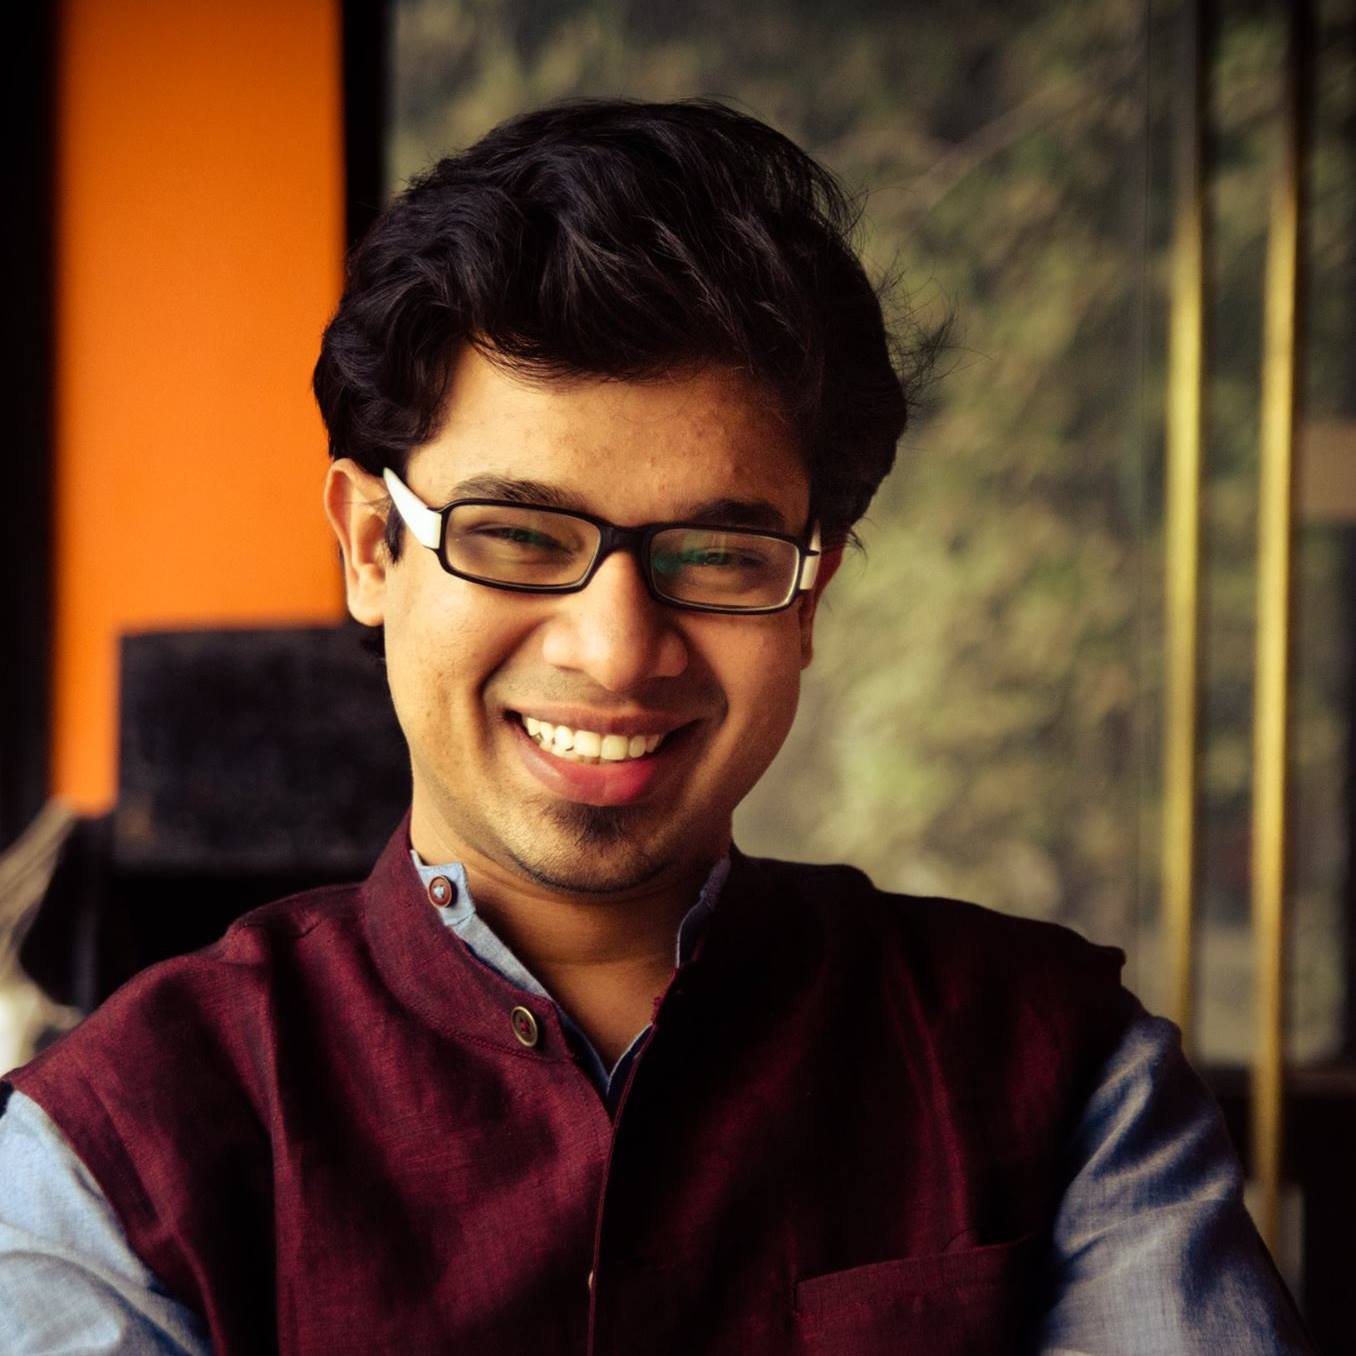
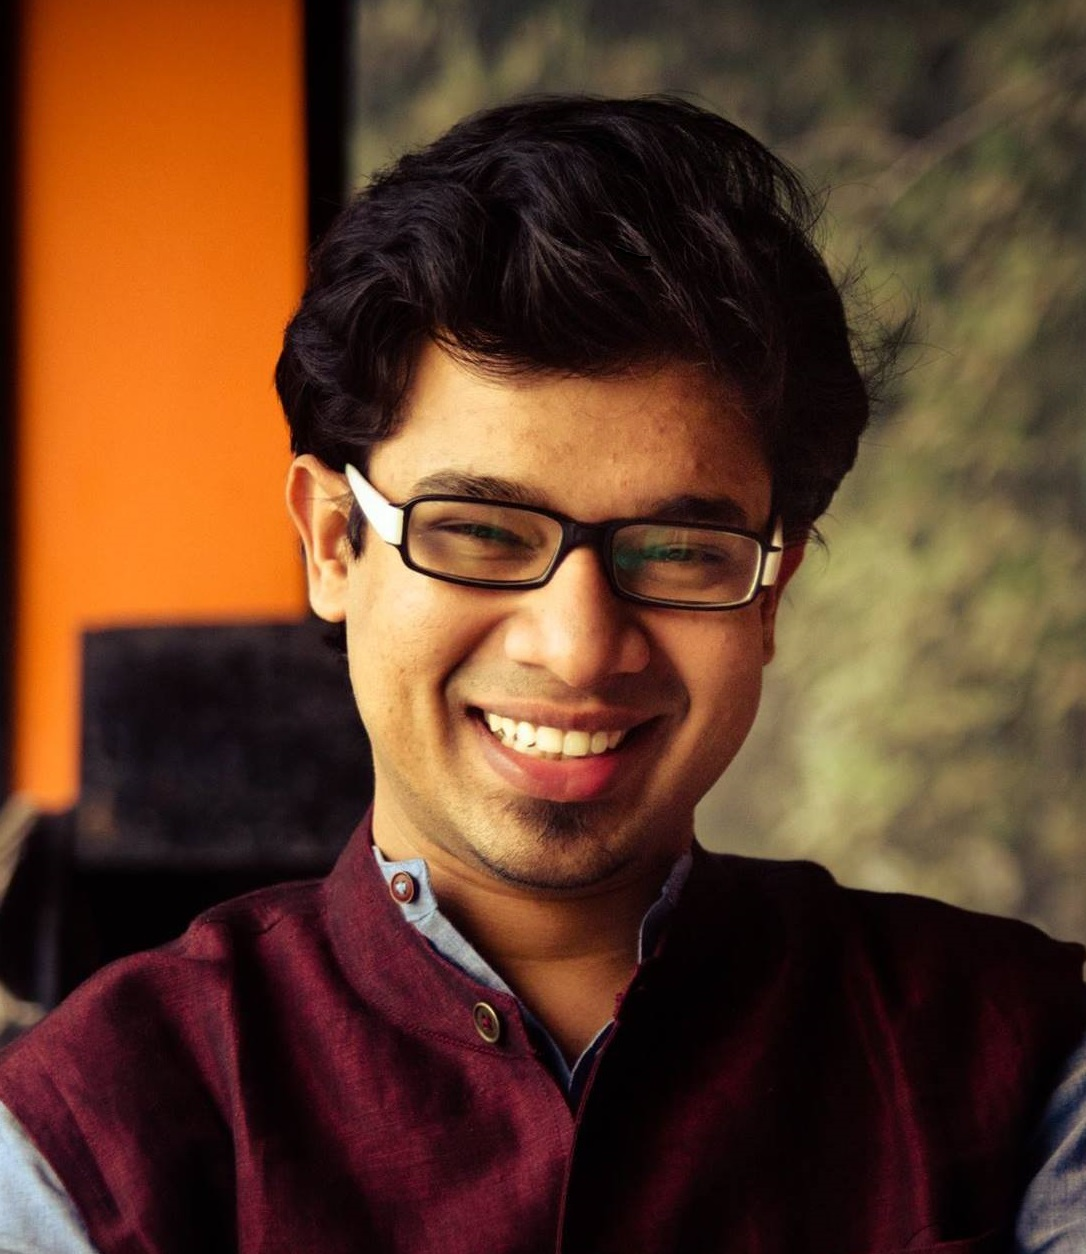
WP-000003 Home page, layout done

diff --git a/index.html b/index.html
@@ -6,18 +6,17 @@
 
 	  </head>
 
-	  <body>
+	  <body bgcolor=#f7f8f9>
 
 	  		<style type="text/css">
 				.tg  {border-collapse:collapse;border-spacing:0;}
 				.tg td{font:"Arial";font-size:12pt;padding:5px 5px;border-style:solid;border-width:0px;overflow:hidden;word-break:normal}
 				.tg th{font-family:Arial, sans-serif;font-size:8px;font-weight:normal;padding:5px 5px;border-style:solid;border-width:0px;overflow:hidden;word-break:normal;}
 				.tg .tg-7h0m{font-family:Georgia;font-size:12pt;font-weight:normal; text-align:center;padding:5px 0 5px 0;border-bottom: thin solid black; border-top: thin solid black}
-				.tg .tg-col{border-left: 1.5pt solid #9b9b9b; width:25%}
+				.tg .tg-col{border-left: 1.5pt solid #9b9b9b; width:28%}
 			</style>
 
-
-				<table class="tg" width="600" align="center">
+				<table class="tg" width="700" align="center">
 				  <tr>
 				  	<th class="tg-031e" colspan="4"> <h1>Soumen Basu</h1> </th>
 				  </tr>
@@ -29,41 +28,51 @@
 	  				</td>
 				  </tr>
 				  <tr class="tg-7h0m">
-				    <td class="tg-7h0m" style="vertical-align:middle" width="100"> <a href="index.html">Home</a> </td>
-				    <td class="tg-7h0m" style="vertical-align:middle" width="160"> <a href="work.html">Projects</a> </td>
-				    <td class="tg-7h0m" style="vertical-align:middle" width="100"> <a href="code.html">Codes</a> </td>
-				    <td class="tg-7h0m" style="vertical-align:middle" width="180"> <a href="misc.html">Miscellaneous</a> </td>
+				    <td class="tg-7h0m" style="vertical-align:middle" width="120"> <a href="index.html">Home</a> </td>
+				    <td class="tg-7h0m" style="vertical-align:middle" width="150"> <a href="work.html">Projects</a> </td>
+				    <td class="tg-7h0m" style="vertical-align:middle" width="120"> <a href="code.html">Codes</a> </td>
+				    <td class="tg-7h0m" style="vertical-align:middle" width="190"> <a href="misc.html">Miscellaneous</a> </td>
 				  </tr>
-			</table>
-			<br><br>
-			<table class="tg" width="600" align="center">
+				</table>
+				<br><br>
+				<table class="tg" width="750" align="center">
 			<!--div class="main" style="margin-left:auto;margin-right:auto;white-space:nowrap"--> 
-				<tr>
-					<td class="tg-031e" colspan="3" style="padding-right:15px">
+					<tr>
+						<td class="tg-031e" colspan="3" style="padding-right:15px">
 					
-					<img src="prof_pic.jpg" width="175" height="180" border="2" hspace=10 align="left">
-					<div style="margin-left:auto;margin-right:auto">
+							<img src="prof_pic.jpg" width="150" height="180" border="2" hspace=10 align="left">
+							<div style="margin-left:auto;margin-right:auto">
 					
-						Hi! I am Soumen. I was born and brought up in <i>"City of Joy"</i>, Kolkata. <br> <br>
-				    	I obtained my <i>B.E.(Hons)</i> in <i>Information Technology</i> from <a href="www.becs.ac.in"><i>Bengal Engineering &amp; Science University (IIEST), Shibpur</i></a>. <br>
-				    	I completed my <i>M.Tech</i> from the Department of Computer Science, IIT Delhi.<br><br>
-				    	Currently I am employed with <b>Adobe Systems India, Bangalore</b>.<br><br>
-				    	I have worked with Prof. Sandeep Sen on <br><b>Randomized Rounding using Brownian Walks</b> for my thesis project.
+							Hi! I am Soumen. I was born and brought up in <i>"City of Joy"</i>, Kolkata. <br> <br>
+							I obtained my <i>B.E.(Hons)</i> in <i>Information Technology</i> from <a href="www.becs.ac.in"><i>Bengal Engineering &amp; Science University (IIEST), Shibpur</i></a>. <br>
+							I completed my <i>M.Tech</i> from the Department of Computer Science, IIT Delhi.<br><br>
+							Currently I am employed with <b>Adobe Systems India, Bangalore</b>.<br><br>
+							I have worked with Prof. Sandeep Sen on <br><b>Randomized Rounding using Brownian Walks</b> for my thesis project.
 				    		<br>Apart from regular work, I am an avid reader. <br>
-						I admire both Contemporary and Classical works.<br>
-				    		I am very much interested in Digital Photography and Music too. <br>
-				    	Here is my <b><a href="CV_Soumen.pdf">Resume</a></b>.
-				    </td>
-					<td class="tg-col" colspan="1" align="center" style="vertical-align:top">
-					<br><br>
-					RESUME <br><br><br><br>
-					CONTACT
-					
-					</td>
-				</tr>
-		</table>
-
-	  		
+							I admire both Contemporary and Classical works.<br>
+							I am very much interested in Digital Photography and Music too. <br>
+							Here is my <b><a href="CV_Soumen.pdf">Resume</a></b>.
+							</div>
+						</td>
+						<td class="tg-col" colspan="1" align="center" style="vertical-align:top">
+							<br><br>
+							<div class="text"><a href="CV_Soumen.pdf">CV</a></div> <br><br><br>
+							<div class="text2"><u>Contact</u></div> <br>
+							<div class="text5">Adobe Tower, Block A <br>
+							Prestige Tech Platina <br>
+							Outer Ring Road <br>
+							Bangalore 560087
+							</div><br>
+							<div class="text3">&nbsp;<img src="email.png" width="14" height="10" valign="middle"> &nbsp;&nbsp;&nbsp; <a href="mailto:sobasu@adobe.com">sobasu@adobe.com </a>
+							</div><br>
+							<div class="text4"><img src="gmail.png" width="14" height="10" valign="middle"> &nbsp <a href="mailto:mail.basu.s@gmail.com">mail.basu.s@gmail.com </a>
+							</div><br><br>
+							<div class="text3">&nbsp;<img src="skype.png" width="14" height="12" valign="middle"> &nbsp;&nbsp;&nbsp; soumenbasu88
+							</div>
+						</td>
+					</tr>
+				</table>
+			
 
 	  </body>
 

diff --git a/style.css b/style.css
@@ -39,6 +39,51 @@ p.big {
     margin: 5px;
 }
 
+.text {
+	text-align:center; 
+	width:50;
+	color:#941414; 
+	background-color:#fdfdfd;
+	font: bold 12pt "Georgia"
+}
+
+.text2 {
+	text-align:center; 
+	width:52;
+	color:#941414; 
+	background-color:#fdfdfd;
+	font: bold 10pt "Georgia"
+}
+
+
+.text3 {
+	text-align:left; 
+	color:#941414; 
+	vertical-align:middle;
+	font: 9pt "Lucida Console";
+	font-stretch: "ultra-condensed";
+	
+}
+
+.text4 {
+	text-align:center; 
+	color:#941414; 
+	vertical-align:middle;
+	font: 9pt "Lucida Console";
+	font-stretch: "ultra-condensed";
+	
+}
+
+.text5 {
+	text-align:center; 
+	color:#921414; 
+	vertical-align:middle;
+	font: 9pt "Arial";
+	font-stretch: "ultra-condensed";
+	
+}
+
+
 .main .screenshot {
     float: left;
     border: 1px solid #c0c0c0;
